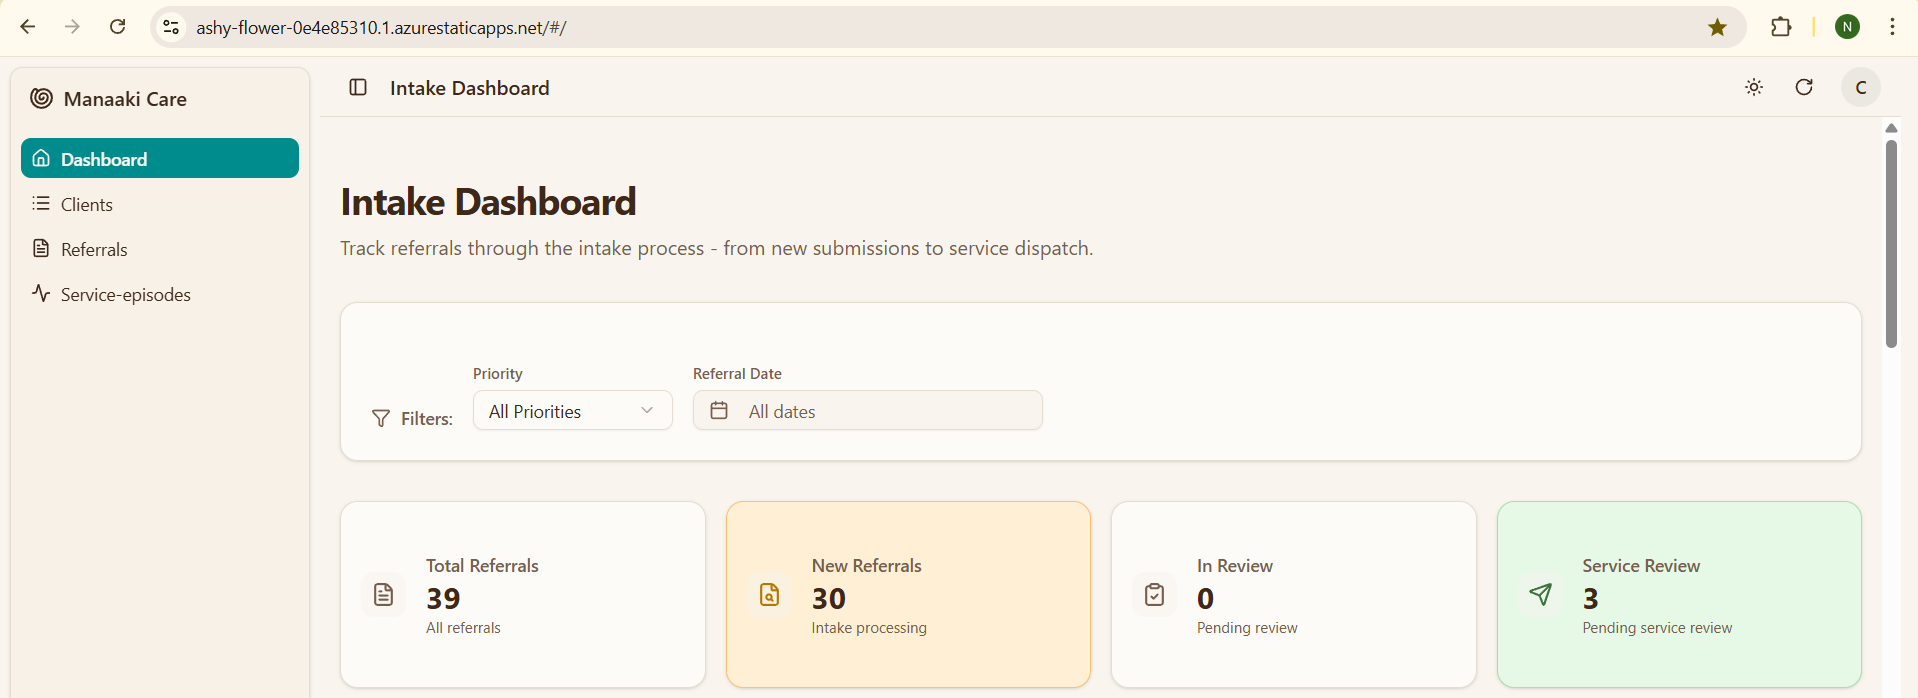
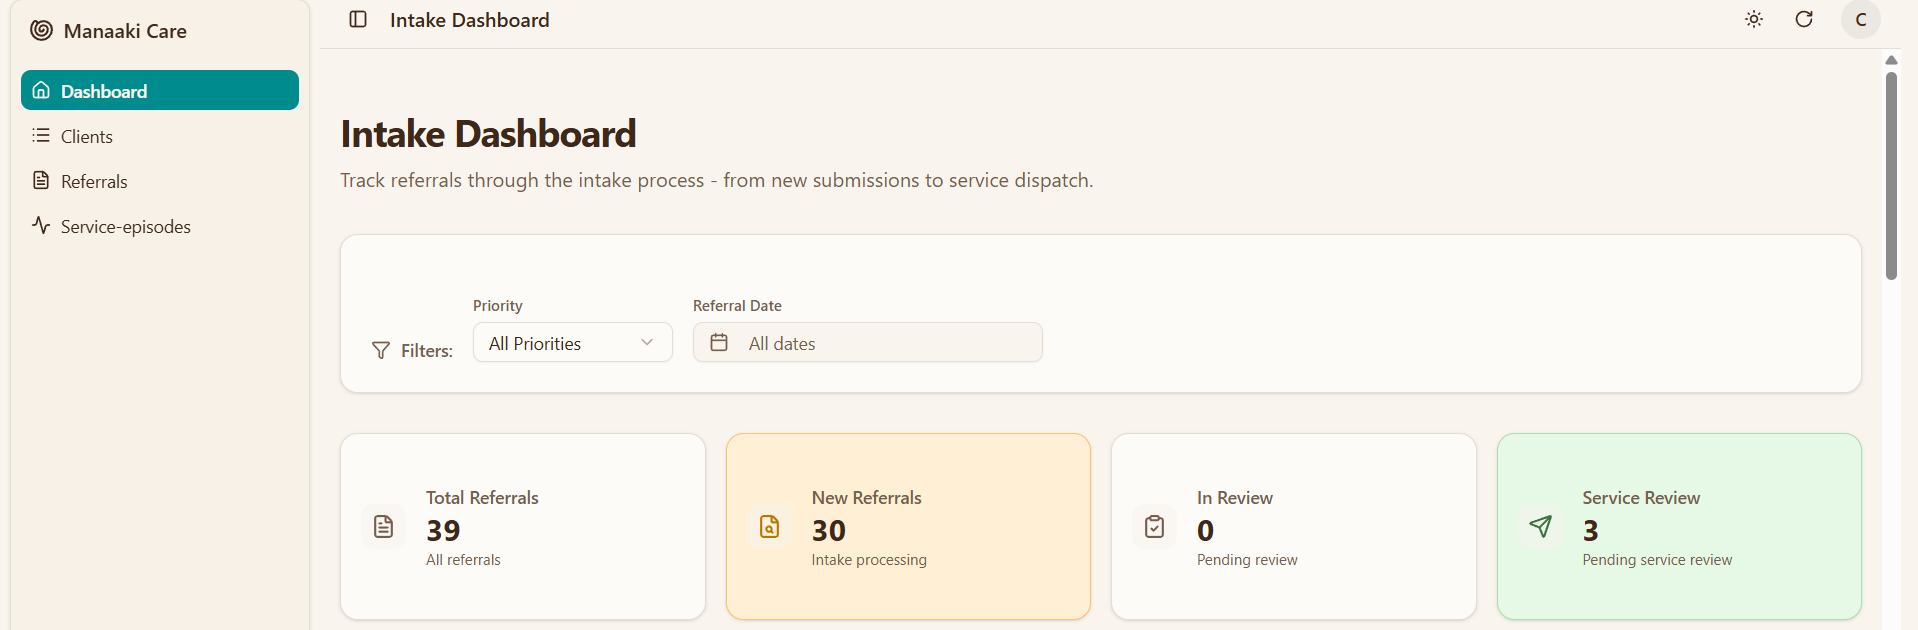
fix(screenshots): strip browser chrome from ten more live images
The first fix was not the whole problem. Checking the rest of the live
screenshots — by stacking the top strip of all thirteen into one image —
showed that ten of them are full browser windows, not one.

All ten show the internal Azure Static Web Apps staging hostname in the
address bar. Beyond that, two different colleagues' browsers were used
and both had their bookmarks bar visible: one reading as private mail and
banking, the other as internal project folders and service consoles.
Several also show a profile photograph and the extensions installed.

All of this is on a public repository and a public site today.

Cropped rather than replaced, for the same reason as before: the
surrounding pages describe these screenshots closely, and a newer capture
would leave that prose describing a picture that is no longer there. The
leak sits entirely above the application viewport.

Three images were already clean and are untouched:
intake_dashboard_overview.png, new_referrals_detail.png and
tab_navigation.png were captured as the application only.

Note this fixes what the site serves, not what the repository remembers.
The originals remain in published history on origin/main; removing them
means rewriting it, which is a decision for a person.

Claude-Session: https://claude.ai/code/session_017hkRjkg7YVBJUUavTXwHTQ

diff --git a/tools/fix_live_screenshots.py b/tools/fix_live_screenshots.py
@@ -27,13 +27,63 @@ import pngkit
 
 ROOT = os.path.dirname(os.path.dirname(os.path.abspath(__file__)))
 
+# Every one of these shows the internal Azure Static Web Apps staging hostname
+# in the address bar. Beyond that, two different people's browsers were used,
+# and both had their bookmarks bar visible; several also show a profile
+# photograph and the extensions they have installed.
+#
+# Three of the thirteen live screenshots are clean and are deliberately absent:
+# intake_dashboard_overview.png, new_referrals_detail.png and
+# tab_navigation.png were captured as the application only.
+#
 # path relative to static/ -> (original height, pixels of chrome to remove, why)
 CHROME = {
 	'case_worker/dashboard/my_active_cases.png': (
-		862,
-		97,
-		'Address bar showing an internal Azure staging host, plus a personal '
-		'bookmarks bar with private mail and banking links.',
+		862, 97,
+		'Address bar with the staging host, plus a personal bookmarks bar '
+		'reading as private mail and banking.',
+	),
+	'case_worker/dashboard/activites_needs_followup.png': (
+		932, 110,
+		'Same browser and same bookmarks bar as my_active_cases.',
+	),
+	'case_worker/dashboard/analytic.png': (
+		473, 41,
+		'Lower edge of the same bookmarks bar, already partly cropped by the '
+		'original author.',
+	),
+	'intake_officer/dashboard/Analytic.png': (
+		698, 68,
+		'Address bar with the staging host; profile avatar.',
+	),
+	'intake_officer/dashboard/in_review_referral.png': (
+		826, 69,
+		'Address bar with the staging host; profile avatar.',
+	),
+	'intake_officer/dashboard/new_intake.png': (
+		931, 68,
+		'Address bar with the staging host; profile avatar.',
+	),
+	'intake_officer/dashboard/pending_service_review_referral.png': (
+		715, 110,
+		'Address bar with the staging host; profile avatar.',
+	),
+	'intake_officer/dashboard/post_dispatch_referral.png': (
+		952, 66,
+		'Address bar with the staging host; profile avatar.',
+	),
+	'supervisor/dashboard/analytic.png': (
+		571, 104,
+		'A second person\'s browser — address bar with the staging host, their '
+		'bookmarks bar, their profile photograph and their installed extensions.',
+	),
+	'supervisor/dashboard/pending_referral_service_request.png': (
+		642, 102,
+		'Same second browser, same bookmarks bar and profile photograph.',
+	),
+	'supervisor/dashboard/service_needing_contact_and_pending_service_dispatch.png': (
+		947, 109,
+		'Same second browser, same bookmarks bar and profile photograph.',
 	),
 }
 
